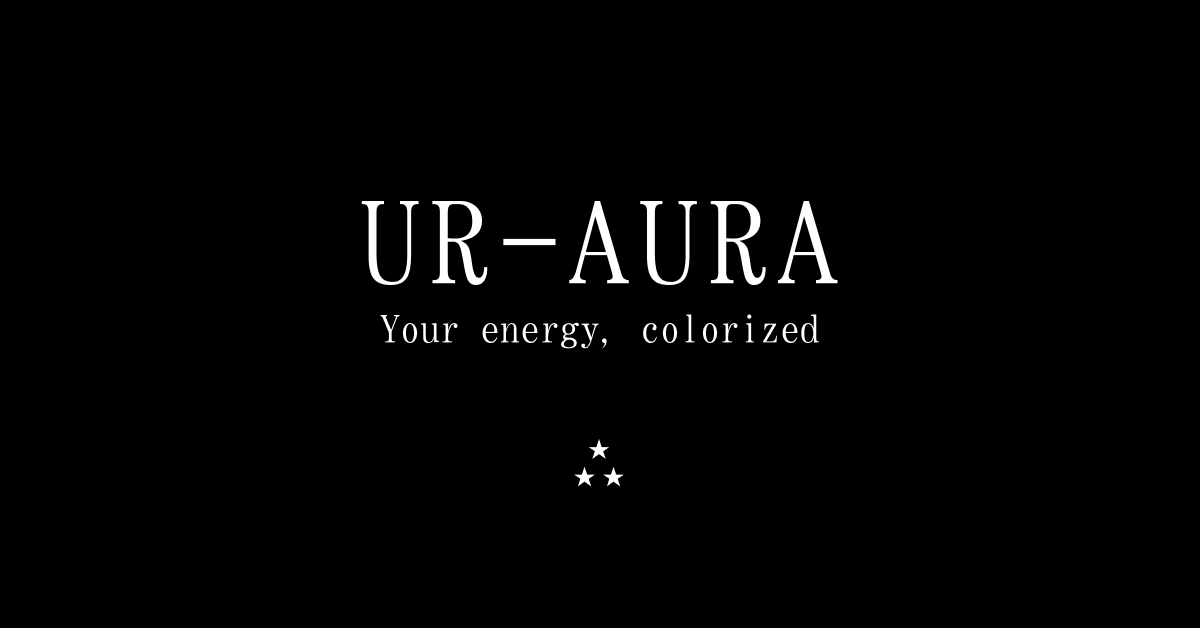
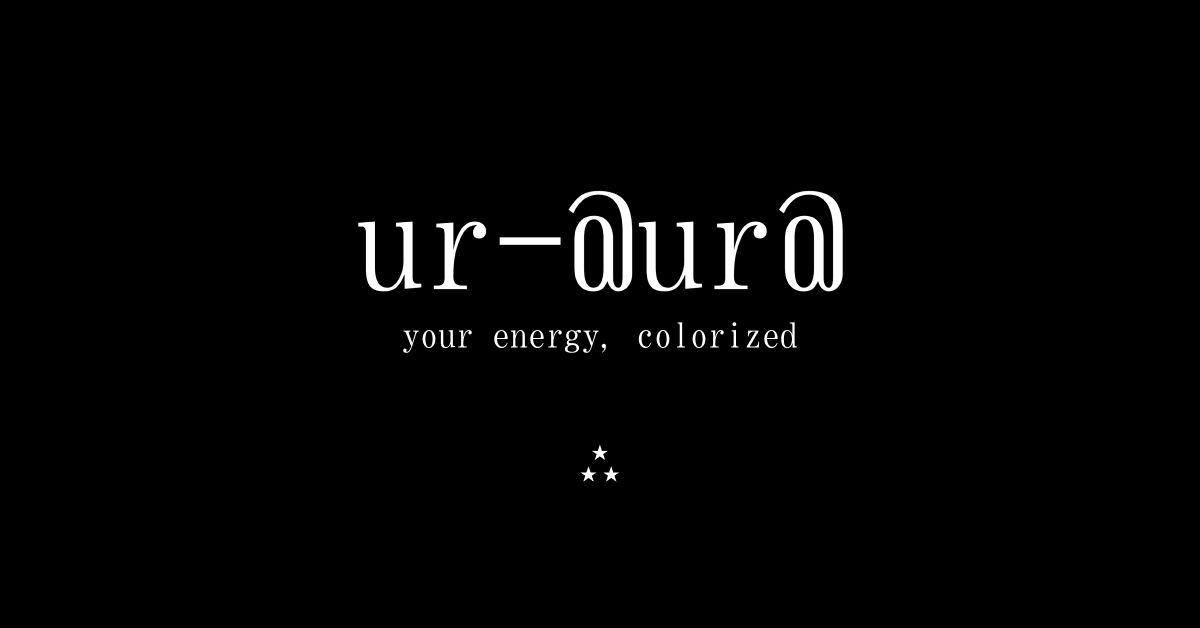
change title to ur-@ur@ and lowercase text to match

Changed region(s): [[0.2775, 0.3025, 0.7092, 0.4841], [0.3083, 0.5143, 0.6783, 0.5748], [0.4625, 0.6959, 0.5242, 0.7866]]

diff --git a/src/ExportControlsWrapper.tsx b/src/ExportControlsWrapper.tsx
@@ -11,7 +11,7 @@ const ExportControlsWrapper = ({
     <div className="button-wrapper export-controls-wrapper">
       <div className="export-controls">
         <div className="control-wrapper">
-          <button disabled>Print photo (for event use only)</button>
+          <button disabled>print photo (for event use only)</button>
           <div className="button-icon">
             <svg
               viewBox="0 0 262 262"
@@ -27,7 +27,7 @@ const ExportControlsWrapper = ({
           </div>
         </div>
         <div className="control-wrapper">
-          <button onClick={onDownloadImage}>Save image to device</button>
+          <button onClick={onDownloadImage}>save image to device</button>
           <div className="button-icon">
             <svg
               viewBox="0 0 167 169"
@@ -44,7 +44,7 @@ const ExportControlsWrapper = ({
         </div>
       </div>
       <button onClick={onRetakePhoto} className="retake-photo-button">
-        Retake photo
+        retake photo
       </button>
     </div>
   );

diff --git a/src/App.tsx b/src/App.tsx
@@ -72,13 +72,13 @@ function App() {
         <div className="text-sidebar">
           <header>
             {/* ⋆⁂･ﾟ*⋆⁂･ﾟ* */}
-            <h1>UR-AURA</h1>
-            <p>Your energy, colorized</p>
+            <h1>ur-@ur@</h1>
+            <p>your energy, colorized</p>
           </header>
           <footer>
             <p>
-              Visit me IRL to purchase your aura photo and companion guidebook.
-              DM or email for private events/inquiries.
+              visit me IRL to purchase your aura photo and companion guidebook.
+              email or DM for private events/inquiries
             </p>
           </footer>
         </div>
@@ -121,7 +121,7 @@ function App() {
                   className="start-camera-button"
                 >
                   <button onClick={handleButtonClick}>
-                    Click to open camera
+                    click to open camera
                   </button>
                 </Fade>
               </AnimatePresence>

diff --git a/src/LoadingScreen.tsx b/src/LoadingScreen.tsx
@@ -6,7 +6,7 @@ const LoadingScreen = (isLoading: { isLoading: boolean }) => {
   const loadingScreenRef = React.useRef<HTMLDivElement>(null);
 
   // spinning text
-  const text = 'UR-AURA ⋆⋆⋆⋆⋆⋆⋆⋆⋆⋆ Loading ⋆⋆⋆⋆⋆⋆⋆⋆⋆⋆⋆⋆⋆⋆⋆⋆⋆';
+  const text = 'ur-@ur@ ⋆⋆⋆⋆⋆⋆⋆⋆⋆⋆ loading... ⋆⋆⋆⋆⋆⋆⋆⋆⋆⋆⋆⋆⋆⋆';
 
   useEffect(() => {
     // on load, fade in spinning loading text

diff --git a/src/ShutterButtonWrapper.tsx b/src/ShutterButtonWrapper.tsx
@@ -18,7 +18,7 @@ const ShutterButtonWrapper = ({
         className={`shutter-button`}
         onClick={onCaptureImage}
       >
-        {isCapturingPhoto ? 'Generating aura.......' : 'Click to capture aura'}
+        {isCapturingPhoto ? 'generating aura.......' : 'click to capture aura'}
       </button>
       <div className="shutter-button-icon">
         <svg viewBox="0 0 90 90" fill="none" xmlns="http://www.w3.org/2000/svg">
